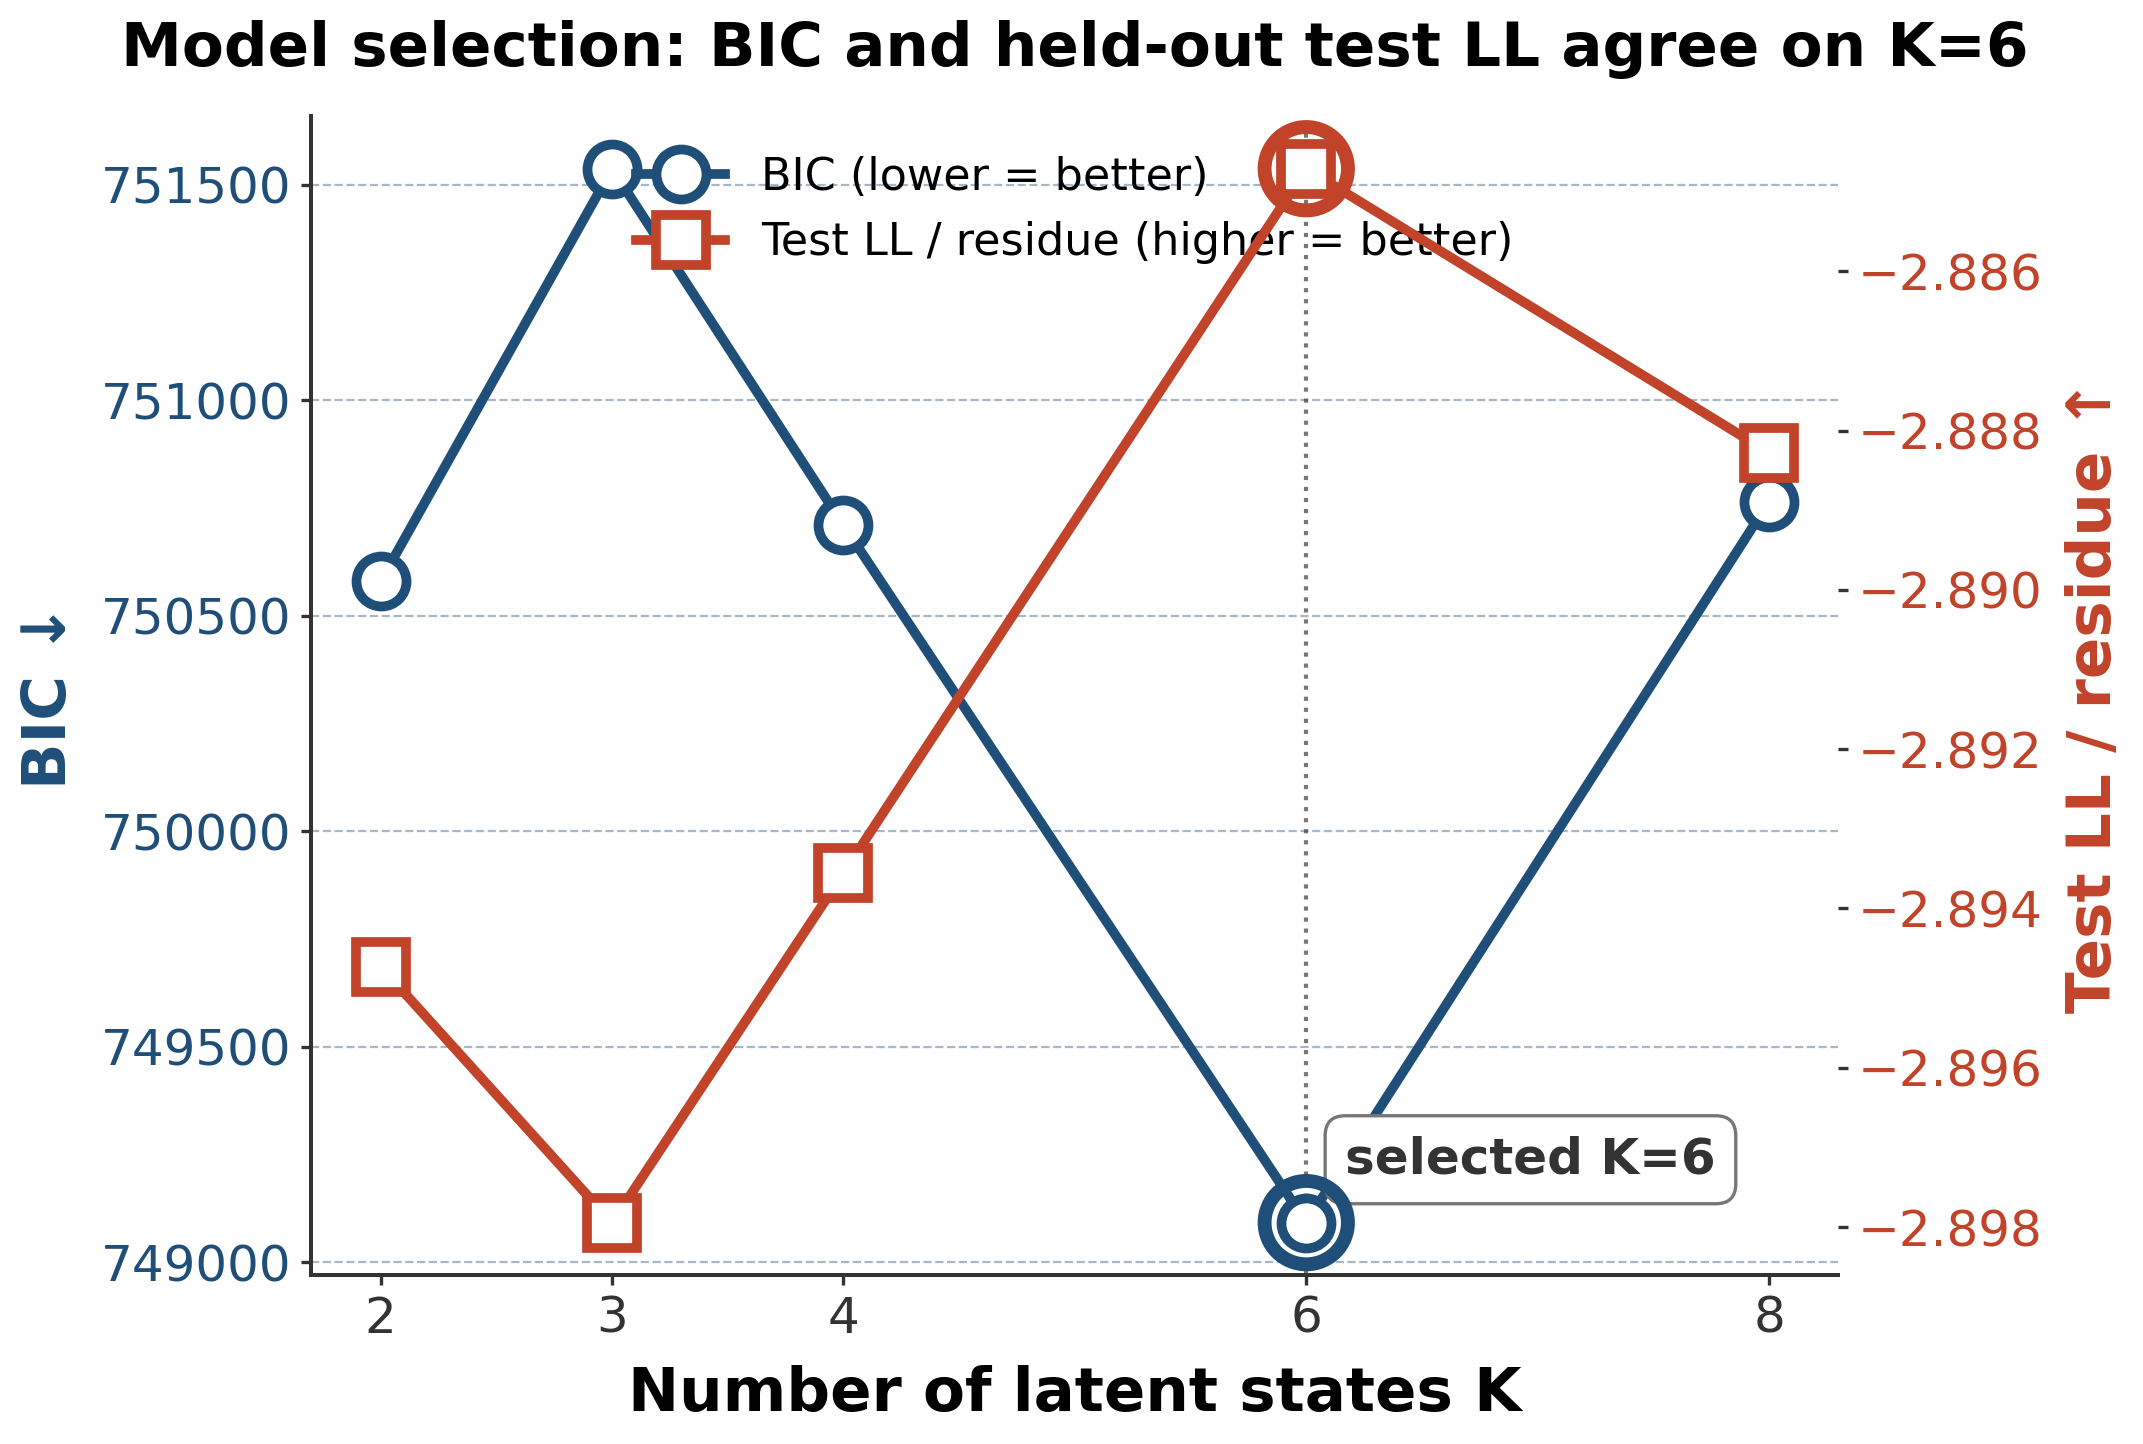
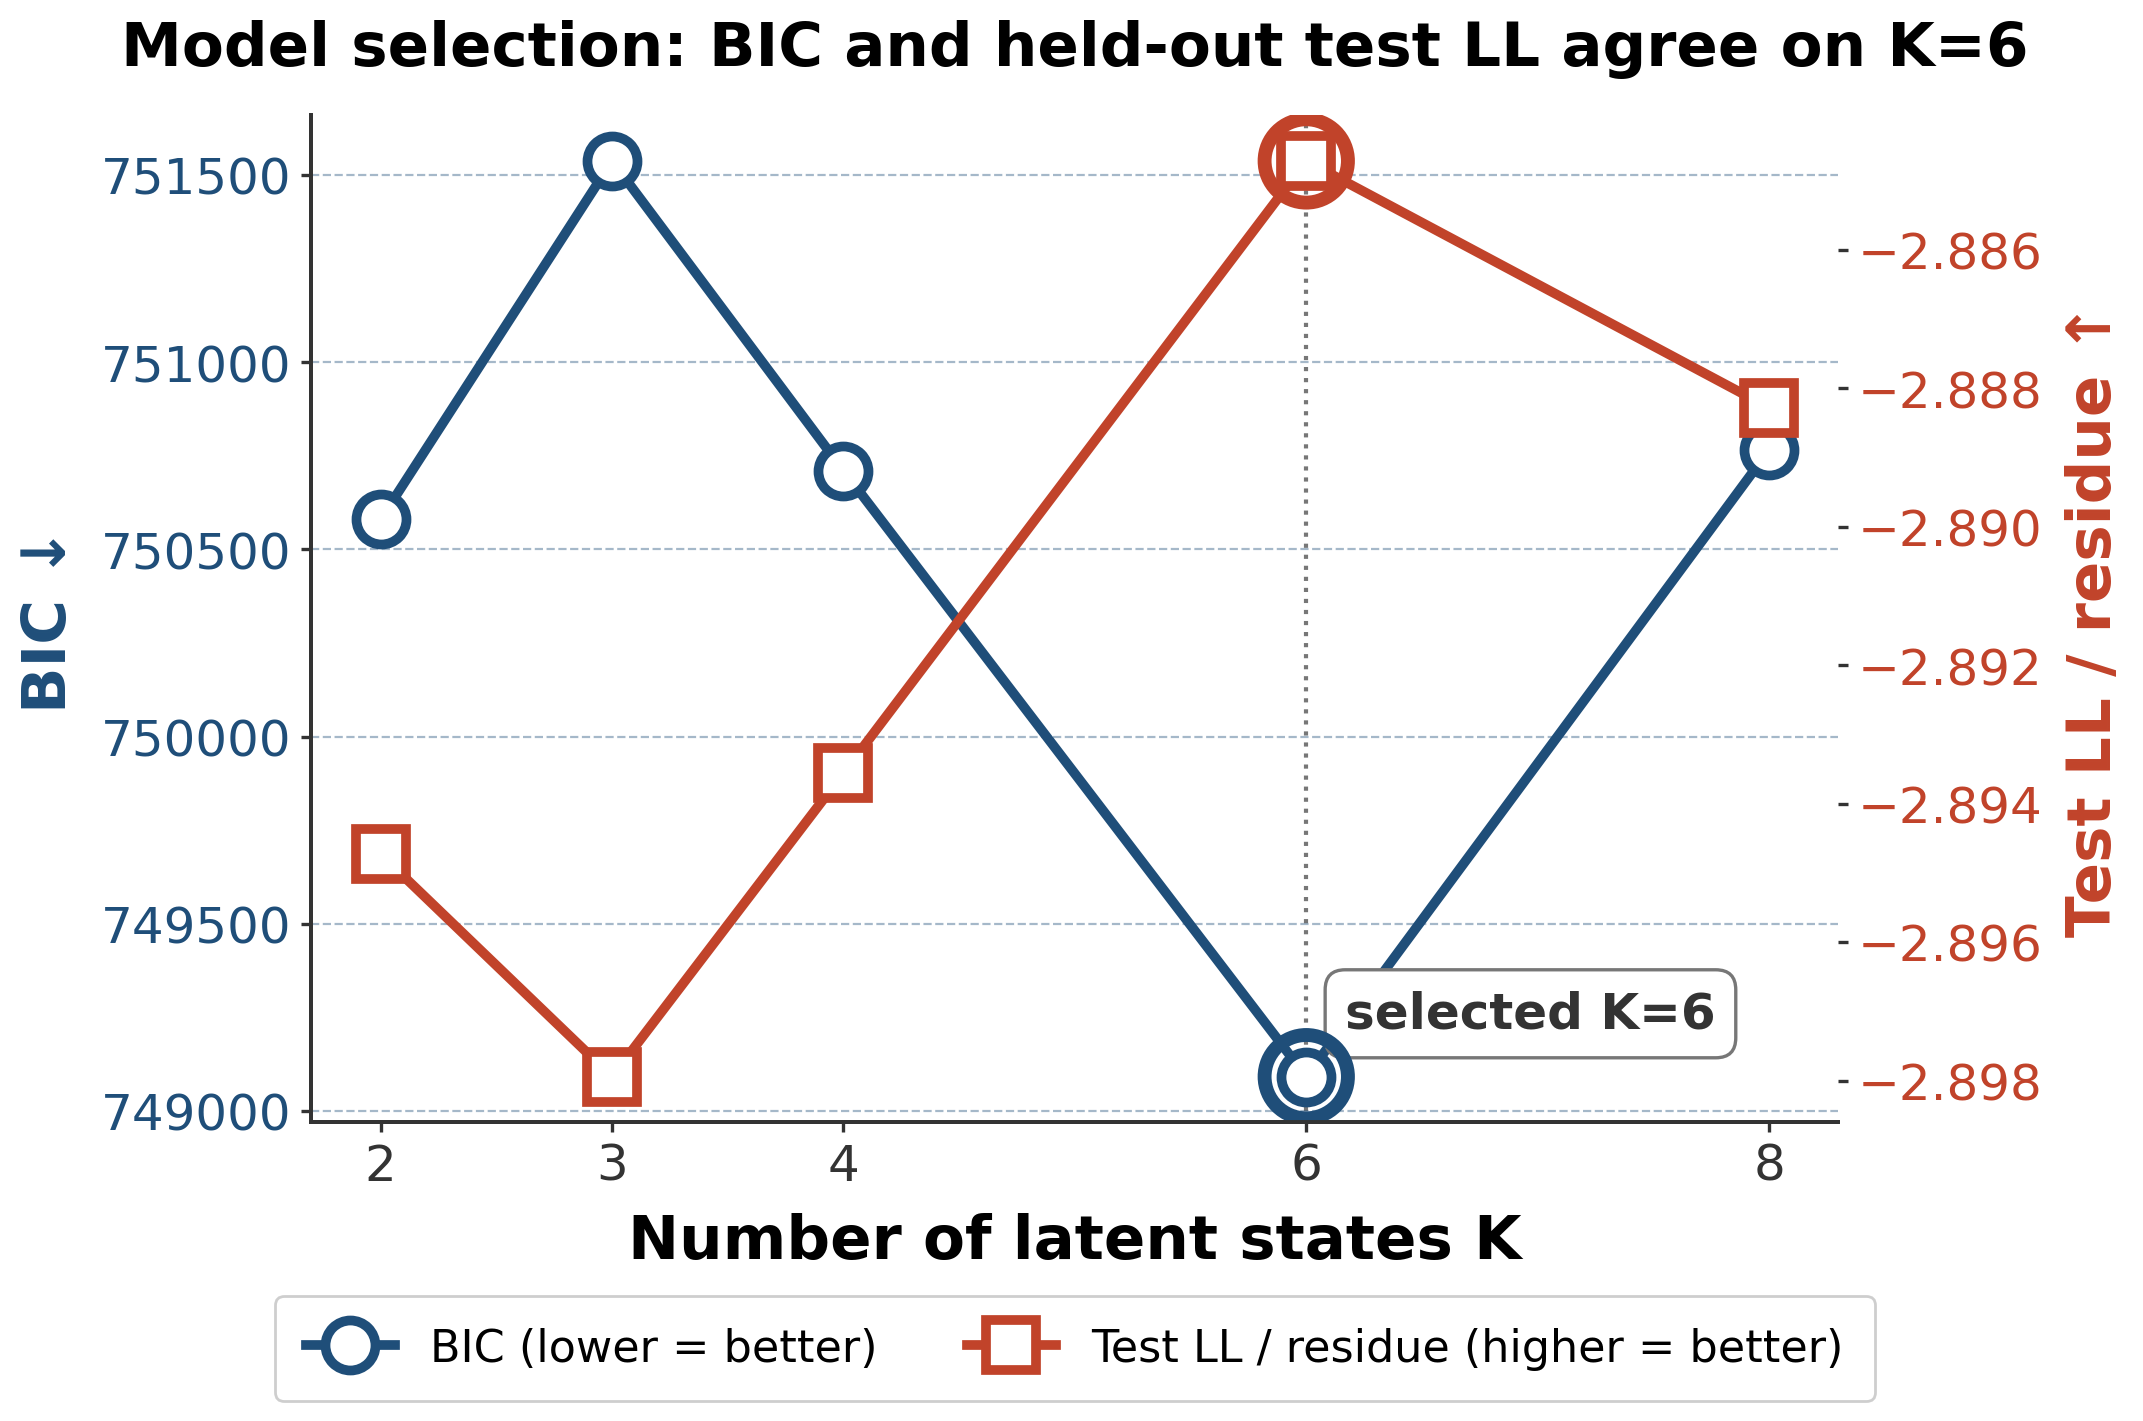
move BIC/test-LL legend below x-axis to free up plot area

diff --git a/src/protein_hmm/visualization/summary_plots.py b/src/protein_hmm/visualization/summary_plots.py
@@ -141,7 +141,16 @@ def plot_bic_and_test_ll(
 
     lines = line1 + line2
     labels = [l.get_label() for l in lines]
-    ax1.legend(lines, labels, loc="upper center", fontsize=16, framealpha=0.95)
+    ax1.legend(
+        lines, labels,
+        loc="upper center",
+        bbox_to_anchor=(0.5, -0.15),
+        ncol=2,
+        fontsize=16,
+        framealpha=0.95,
+        frameon=True,
+        borderpad=0.7,
+    )
 
     figure.tight_layout()
     _save(figure, path)
